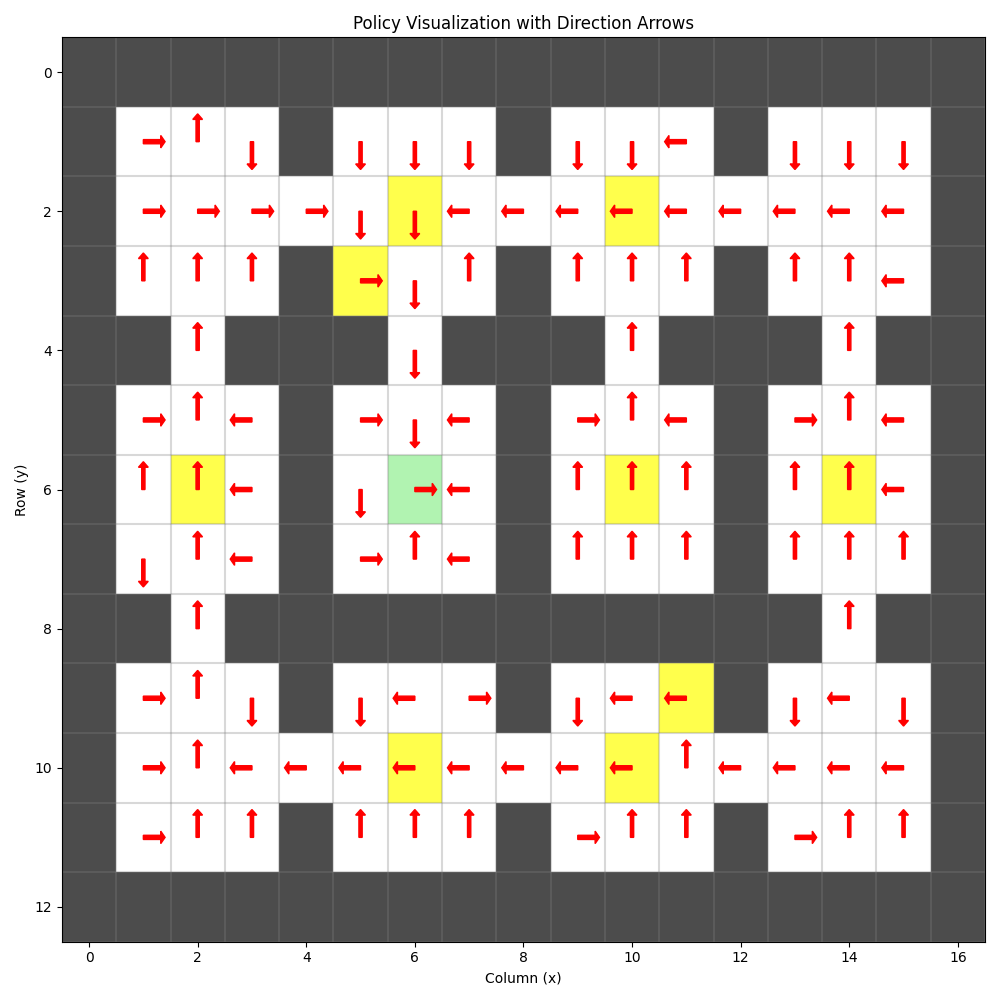
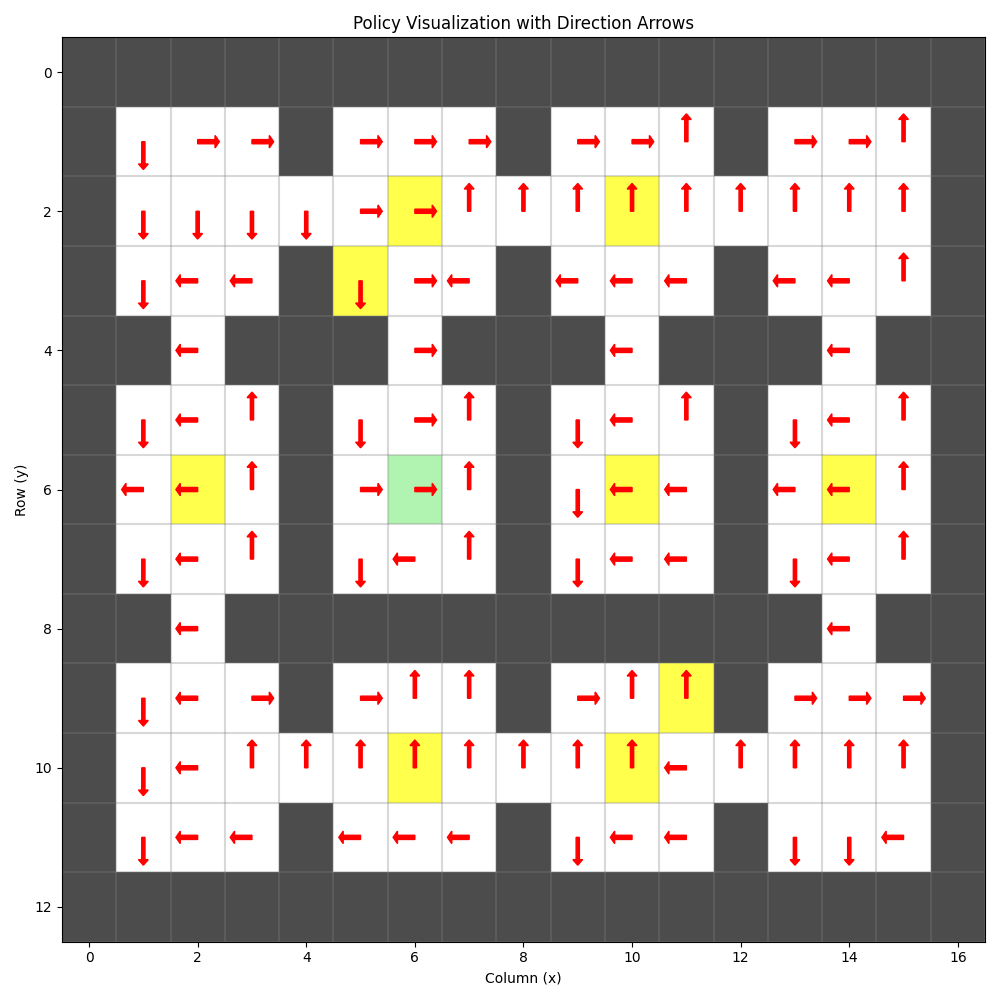
Fix base policies

diff --git a/project/viper_adapter.py b/project/viper_adapter.py
@@ -5,15 +5,48 @@ from reach_avoid_tabular import Room
 from viper.core.dt import DTPolicy
 from boolean_task import GoalOrientedQLearning
 
+class ActionMapper:
+    """
+    Handles mapping between VIPER student actions and Room environment actions.
+    Ensures consistent action indexing between y-compose and the extracted policy.
+    """
+    def __init__(self, n_actions=4):
+        self.n_actions = n_actions
+        # Default Mapping for 4 actions:
+        # Room indices (y-compose): 0:North, 1:East, 2:South, 3:West
+        # VIPER student indices: 0:West(Left), 1:South(Down), 2:East(Right), 3:North(Up)
+        if n_actions == 4:
+            self.room_to_viper = {0: 3, 1: 2, 2: 1, 3: 0}
+            self.viper_to_room = {3: 0, 2: 1, 1: 2, 0: 3}
+        else:
+            # Identity mapping for other configurations (e.g. 8 actions)
+            self.room_to_viper = {i: i for i in range(n_actions)}
+            self.viper_to_room = {i: i for i in range(n_actions)}
+
+    def to_room(self, viper_action):
+        return self.viper_to_room.get(int(viper_action), int(viper_action))
+
+    def to_viper(self, room_action):
+        return self.room_to_viper.get(int(room_action), int(room_action))
+
+    def reorder_q(self, q_values):
+        """Reorders Q-values array from Room index ordering to VIPER index ordering."""
+        reordered = np.zeros_like(q_values)
+        for r_idx, v_idx in self.room_to_viper.items():
+            if r_idx < len(q_values) and v_idx < len(reordered):
+                reordered[v_idx] = q_values[r_idx]
+        return reordered
+
 class RoomGymWrapper:
     """Wraps the custom Room environment to follow the OpenAI Gym interface used by VIPER."""
-    def __init__(self, room: Room, goal_mask: torch.Tensor, obstacle_mask: torch.Tensor, max_steps: int = 200):
+    def __init__(self, room: Room, goal_mask: torch.Tensor, obstacle_mask: torch.Tensor, max_steps: int = 200, mapper=None):
         self.room = room
         self.goal_mask = goal_mask
         self.obstacle_mask = obstacle_mask
         self.unwrapped = room 
         self.max_steps = max_steps
         self.curr_step = 0
+        self.mapper = mapper or ActionMapper(room.n_actions)
 
     def reset(self, start_state=None):
         # Room.start returns the initial location as np.ndarray
@@ -22,8 +55,11 @@ class RoomGymWrapper:
 
     def step(self, action):
         self.curr_step += 1
+        # Map student action to Room action index
+        mapped_action = self.mapper.to_room(action)
+        
         # Room.step returns (new_loc, label)
-        new_loc, label = self.room.step(action)
+        new_loc, label = self.room.step(mapped_action)
         obs = np.array(new_loc)
         
         # Calculate reward and termination for a specific reach-avoid subgoal
@@ -46,20 +82,33 @@ class RoomGymWrapper:
 
 class VIPERTeacher:
     """Wraps GoalOrientedQLearning to provide the batched predict/predict_q methods for DAgger."""
-    def __init__(self, qmodel: GoalOrientedQLearning, gr_index: int):
+    def __init__(self, qmodel: GoalOrientedQLearning, gr_index: int, mapper=None):
         self.qmodel = qmodel
         self.gr = gr_index
+        self.mapper = mapper or ActionMapper(qmodel.env.n_actions)
 
     def predict(self, obss):
         # obss is (N, state_dim)
-        # Ensure select_action only picks from valid actions in the wrapped room
-        return np.array([self.qmodel.select_action(self.qmodel.Q_subgoal, 
-                         obs.astype(int), self.gr) for obs in obss])
+        # Use the argmax of the Q-table to get the teacher's expert action, then map to student space.
+        # We manually find the best action to ensure a random choice among ties without teacher epsilon.
+        actions = []
+        for obs in obss:
+            q_vals = self.qmodel.Q_subgoal[tuple(obs.astype(int)) + (self.gr,)][:self.qmodel.env.n_actions]
+            max_q = q_vals.max()
+            best_actions = (q_vals == max_q).nonzero(as_tuple=True)[0]
+            room_action = random.choice(best_actions).item()
+            actions.append(self.mapper.to_viper(room_action))
+        return np.array(actions)
 
     def predict_q(self, obss):
         # Returns Q values for all actions for each state
         # Slice the Q-table to only return the actions available to the room
-        return np.array([self.qmodel.Q_subgoal[tuple(obs.astype(int)) + (self.gr,)][:self.qmodel.env.n_actions].numpy() for obs in obss])
+        # and reorder them to match the student's action mapping.
+        q_batch = []
+        for obs in obss:
+            q_vals = self.qmodel.Q_subgoal[tuple(obs.astype(int)) + (self.gr,)][:self.qmodel.env.n_actions].numpy()
+            q_batch.append(self.mapper.reorder_q(q_vals))
+        return np.array(q_batch)
 
 class EpsilonGreedyDTPolicy(DTPolicy):
     """A wrapper for DTPolicy that adds epsilon-greedy exploration during distillation rollouts."""
@@ -74,7 +123,7 @@ class EpsilonGreedyDTPolicy(DTPolicy):
         if not hasattr(self, 'tree'):
             return np.random.randint(0, self.n_actions, size=len(obss))
             
-        preds = super().predict(obss)
+        preds = np.copy(super().predict(obss))
         if self.epsilon > 0:
             # Apply epsilon-greedy exploration to each observation in the batch
             for i in range(len(preds)):